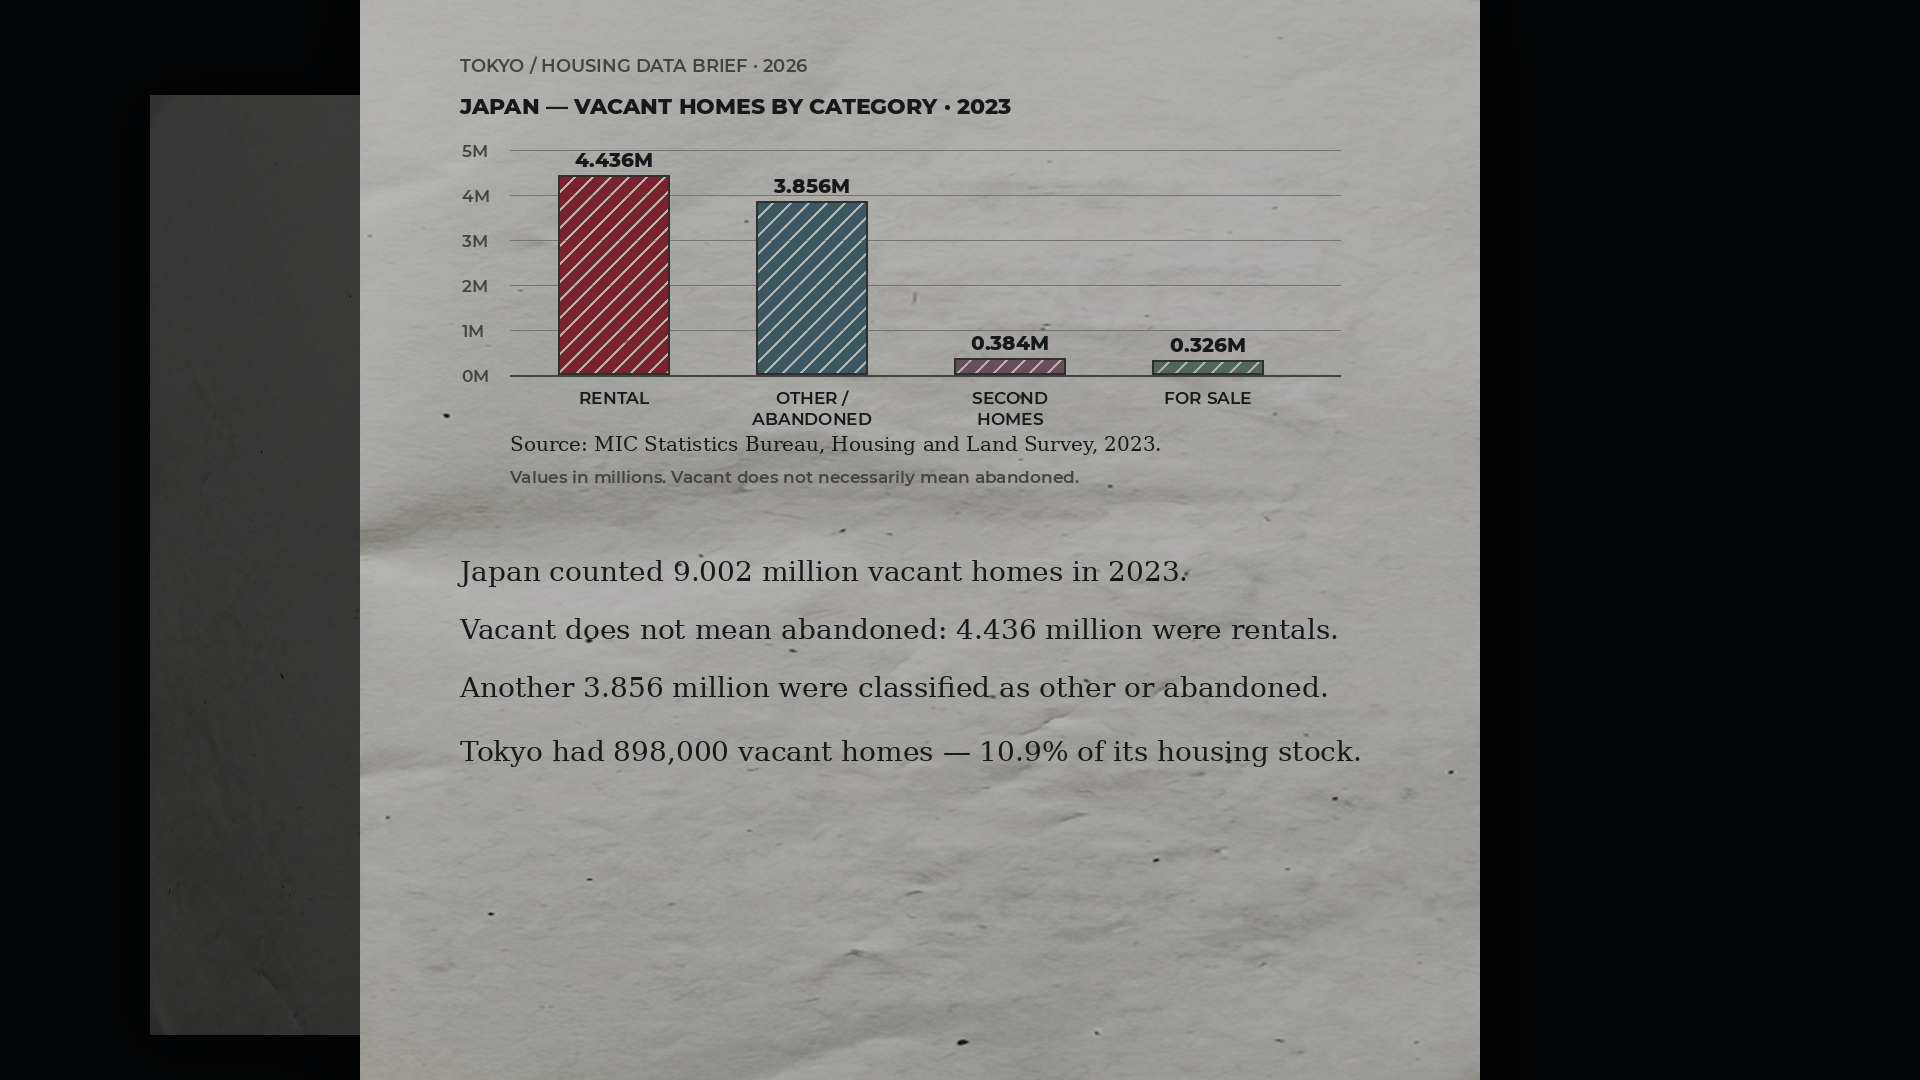
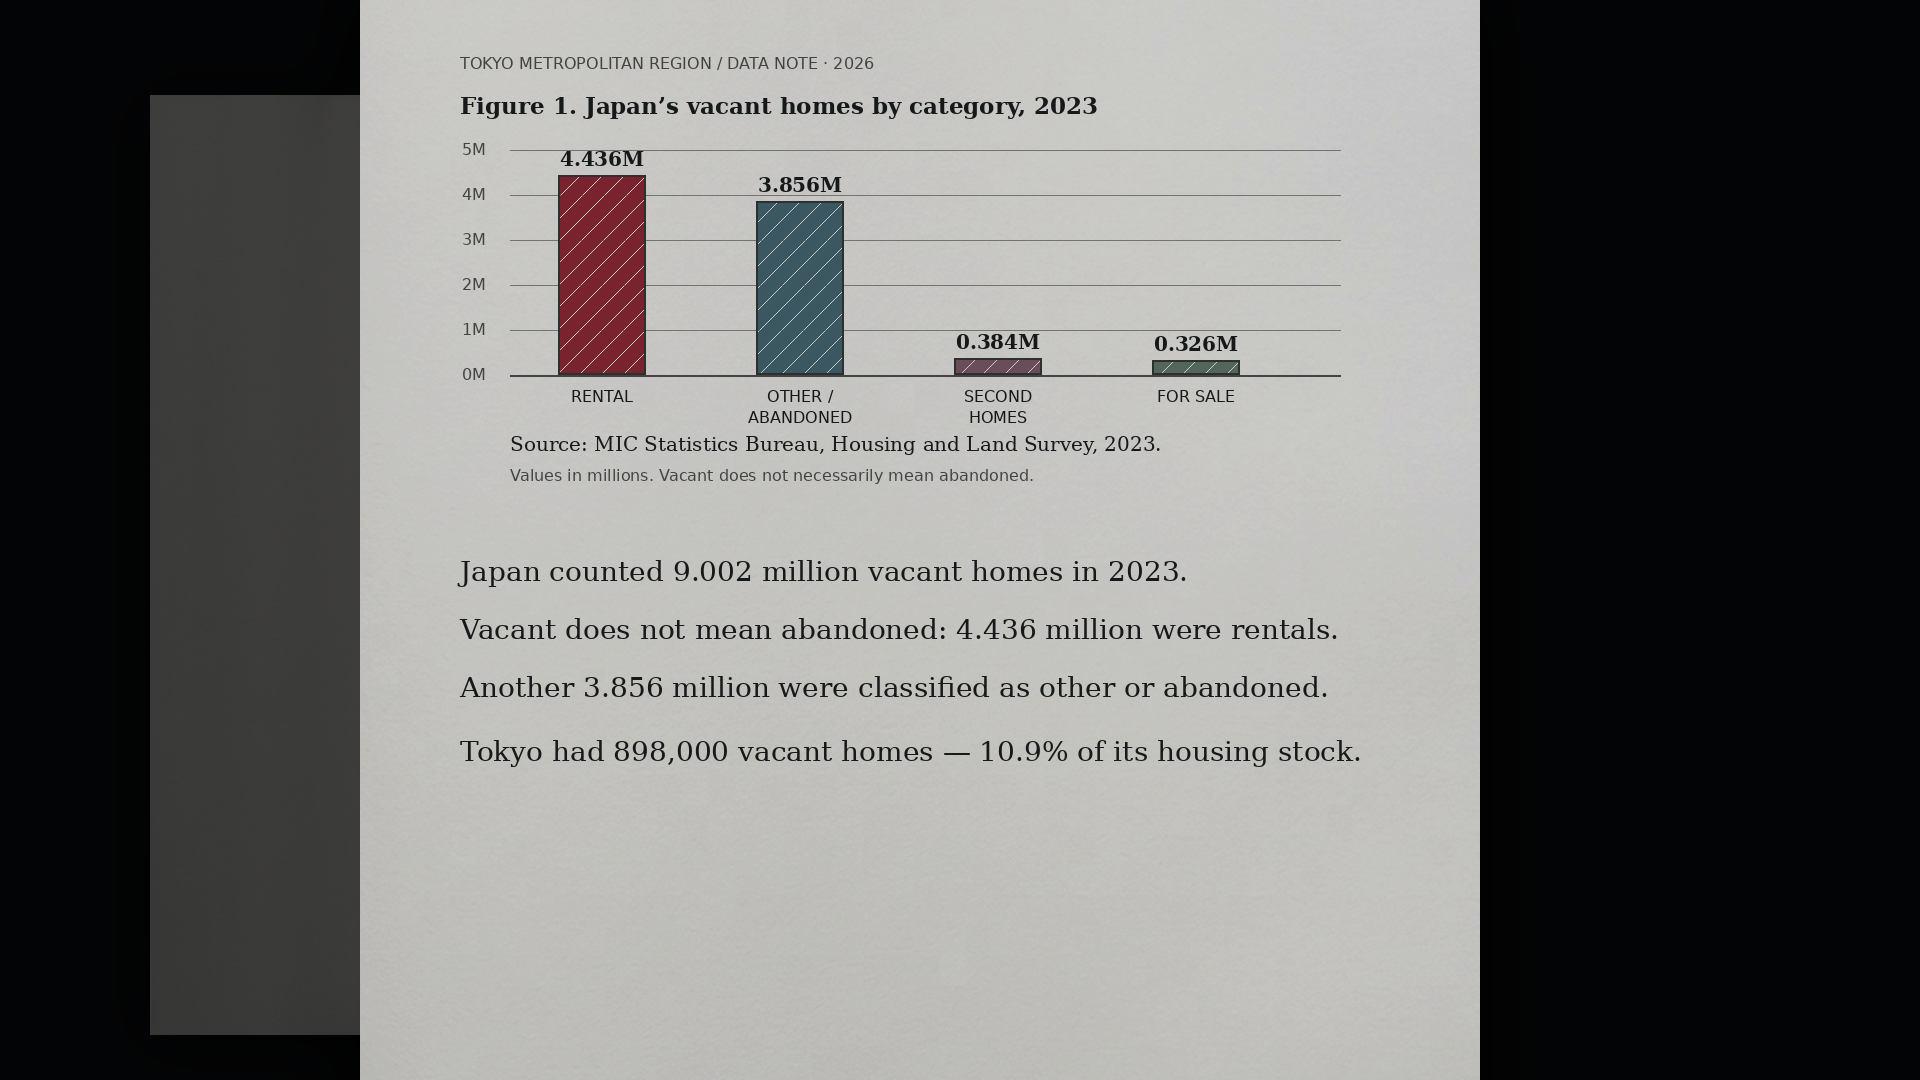
shot8: professional paper closer framing and softer light

diff --git a/src/LabSpotlightDoc.tsx b/src/LabSpotlightDoc.tsx
@@ -5,37 +5,41 @@ const clamp = {extrapolateLeft: 'clamp', extrapolateRight: 'clamp'} as const;
 
 export const LabSpotlightDoc: React.FC = () => {
   const frame = useCurrentFrame();
-  const zoom = interpolate(frame, [0, 299], [1, 1.018], clamp);
-  const dim = interpolate(frame, [20, 56], [0.22, 0.88], {...clamp, easing: Easing.bezier(0.4, 0, 0.2, 1)});
-  const spot = interpolate(frame, [26, 60], [0, 0.88], {...clamp, easing: Easing.bezier(0.4, 0, 0.2, 1)});
-  const spotY = interpolate(frame, [22, 58], [59, 69], clamp);
+  const zoom = interpolate(frame, [0, 299], [1.09, 1.115], clamp);
+  const dim = interpolate(frame, [20, 56], [0.18, 0.76], {...clamp, easing: Easing.bezier(0.4, 0, 0.2, 1)});
+  const spot = interpolate(frame, [26, 60], [0, 0.72], {...clamp, easing: Easing.bezier(0.4, 0, 0.2, 1)});
   const sweep = interpolate(frame, [72, 104], [0, 1], {...clamp, easing: Easing.bezier(0.45, 0, 0.2, 1)});
 
   // Geometry exported by build_lab8_document.py. The highlighted image is an
-  // identical page with yellow painted BEFORE the target text, so the sweep
-  // reveals a real printed-text/highlighter composite rather than covering ink.
+  // identical page with yellow painted BEFORE the target text, preserving ink.
   const clipLeft = 445;
   const clipWidth = 950;
   const clipRight = 1920 - (clipLeft + clipWidth * sweep);
   const highlightClip = `inset(724px ${clipRight}px 296px ${clipLeft}px)`;
+  const pageTransform = `scale(${zoom})`;
 
   return (
     <AbsoluteFill style={{backgroundColor: '#020303', overflow: 'hidden'}}>
-      <AbsoluteFill style={{transform: `scale(${zoom})`, transformOrigin: '52% 68%'}}>
+      <AbsoluteFill style={{transform: pageTransform, transformOrigin: '52% 68%'}}>
         <Img src={staticFile('lab8-document-clean.webp')} style={{position: 'absolute', left: 0, top: 0, width: 1920, height: 1080}} />
-        <Img src={staticFile('lab8-document-highlight.webp')} style={{position: 'absolute', left: 0, top: 0, width: 1920, height: 1080, clipPath: highlightClip}} />
       </AbsoluteFill>
 
       <AbsoluteFill
         style={{
-          background: `radial-gradient(ellipse 760px 345px at 52% ${spotY}%, rgba(0,0,0,0) 0%, rgba(0,0,0,.08) 42%, rgba(0,0,0,.76) 100%)`,
+          background: 'radial-gradient(ellipse 850px 390px at 52% 68%, rgba(0,0,0,0) 0%, rgba(0,0,0,.05) 44%, rgba(0,0,0,.64) 100%)',
           opacity: dim,
         }}
       />
-      <AbsoluteFill style={{backgroundColor: '#000', opacity: dim * 0.15}} />
+      <AbsoluteFill style={{backgroundColor: '#000', opacity: dim * 0.09}} />
+
+      {/* Keep the yellow above the dimming layer, as in the bright reference,
+          but below the soft spotlight so it still belongs to the same light. */}
+      <AbsoluteFill style={{transform: pageTransform, transformOrigin: '52% 68%'}}>
+        <Img src={staticFile('lab8-document-highlight.webp')} style={{position: 'absolute', left: 0, top: 0, width: 1920, height: 1080, clipPath: highlightClip}} />
+      </AbsoluteFill>
       <AbsoluteFill
         style={{
-          background: `radial-gradient(ellipse 650px 245px at 52% ${spotY}%, rgba(255,255,255,.32) 0%, rgba(255,255,255,.12) 46%, rgba(255,255,255,0) 76%)`,
+          background: 'radial-gradient(ellipse 700px 280px at 52% 68%, rgba(255,255,255,.28) 0%, rgba(255,255,255,.11) 46%, rgba(255,255,255,0) 78%)',
           mixBlendMode: 'screen',
           opacity: spot,
         }}

diff --git a/scripts/build_lab8_document.py b/scripts/build_lab8_document.py
@@ -9,14 +9,16 @@ SERIF = '/usr/share/fonts/truetype/dejavu/DejaVuSerif.ttf'
 SERIF_BOLD = '/usr/share/fonts/truetype/dejavu/DejaVuSerif-Bold.ttf'
 MONT = str(ROOT / 'fonts' / 'Montserrat-SemiBold.ttf')
 MONT_BOLD = str(ROOT / 'fonts' / 'Montserrat-ExtraBold.ttf')
+SANS = '/usr/share/fonts/truetype/dejavu/DejaVuSans.ttf'
+SANS_BOLD = '/usr/share/fonts/truetype/dejavu/DejaVuSans-Bold.ttf'
 
 source = Image.open(PUBLIC / 'lab8-paper-source.png').convert('RGB')
 # Use the generated blank report only as real-looking paper texture. All data and
 # typography are original and are added below from the verified MIC figures.
-right_texture = source.crop((710, 55, 1135, 715)).resize((1120, 1140), Image.Resampling.LANCZOS)
-right_texture = ImageEnhance.Brightness(right_texture).enhance(0.80)
-right_texture = ImageEnhance.Contrast(right_texture).enhance(0.90)
-left_texture = source.crop((270, 55, 640, 715)).resize((260, 940), Image.Resampling.LANCZOS)
+right_texture = source.crop((440, 85, 1135, 690)).resize((1120, 1140), Image.Resampling.LANCZOS)
+right_texture = ImageEnhance.Brightness(right_texture).enhance(0.86)
+right_texture = ImageEnhance.Contrast(right_texture).enhance(0.92)
+left_texture = source.crop((230, 80, 390, 690)).resize((260, 940), Image.Resampling.LANCZOS)
 left_texture = ImageEnhance.Brightness(left_texture).enhance(0.27)
 
 canvas = Image.new('RGB', (W, H), '#030405')
@@ -36,18 +38,18 @@ grid = (115, 116, 109, 150)
 red = (121, 35, 46, 255)
 slate = (59, 88, 98, 255)
 
-f_header = ImageFont.truetype(MONT, 18)
-f_chart = ImageFont.truetype(MONT_BOLD, 22)
-f_small = ImageFont.truetype(MONT, 17)
-f_value = ImageFont.truetype(MONT_BOLD, 20)
+f_header = ImageFont.truetype(SANS, 16)
+f_chart = ImageFont.truetype(SERIF_BOLD, 23)
+f_small = ImageFont.truetype(SANS, 16)
+f_value = ImageFont.truetype(SERIF_BOLD, 20)
 f_serif = ImageFont.truetype(SERIF, 20)
 f_body = ImageFont.truetype(SERIF, 28)
 f_body_bold = ImageFont.truetype(SERIF_BOLD, 28)
 
 # Header and original data chart.
 canvas_draw = ImageDraw.Draw(canvas)
-canvas_draw.text((460, 54), 'TOKYO / HOUSING DATA BRIEF · 2026', font=f_header, fill=muted)
-canvas_draw.text((460, 92), 'JAPAN — VACANT HOMES BY CATEGORY · 2023', font=f_chart, fill=ink)
+canvas_draw.text((460, 54), 'TOKYO METROPOLITAN REGION / DATA NOTE · 2026', font=f_header, fill=muted)
+canvas_draw.text((460, 92), 'Figure 1. Japan’s vacant homes by category, 2023', font=f_chart, fill=ink)
 
 chart_x, chart_y, chart_w, chart_h = 510, 150, 830, 225
 for tick in range(6):
@@ -59,7 +61,7 @@ canvas_draw.line((chart_x, chart_y + chart_h, chart_x + chart_w, chart_y + chart
 values = [4.436, 3.856, 0.384, 0.326]
 labels = ['RENTAL', 'OTHER /\nABANDONED', 'SECOND\nHOMES', 'FOR SALE']
 colors = [red, slate, (106, 77, 91, 255), (83, 102, 91, 255)]
-bar_w = 112
+bar_w = 88
 for i, (value, label, color) in enumerate(zip(values, labels, colors)):
     x = chart_x + 48 + i * 198
     height = value / 5 * chart_h
@@ -68,8 +70,8 @@ for i, (value, label, color) in enumerate(zip(values, labels, colors)):
     bar = Image.new('RGBA', (bar_w, bar_h), color)
     bd = ImageDraw.Draw(bar)
     # Fine diagonal hatch is clipped to the bar itself, like a printed chart.
-    for k in range(-bar_h, bar_w + bar_h, 18):
-        bd.line((k, bar_h, k + bar_h, 0), fill=(210, 211, 199, 80), width=2)
+    for k in range(-bar_h, bar_w + bar_h, 22):
+        bd.line((k, bar_h, k + bar_h, 0), fill=(230, 230, 220, 42), width=1)
     bd.rectangle((0, 0, bar_w - 1, bar_h - 1), outline=(45, 48, 47, 255), width=2)
     canvas.paste(bar, (int(x), int(chart_y + chart_h - bar_h)), bar)
     canvas_draw = ImageDraw.Draw(canvas)
